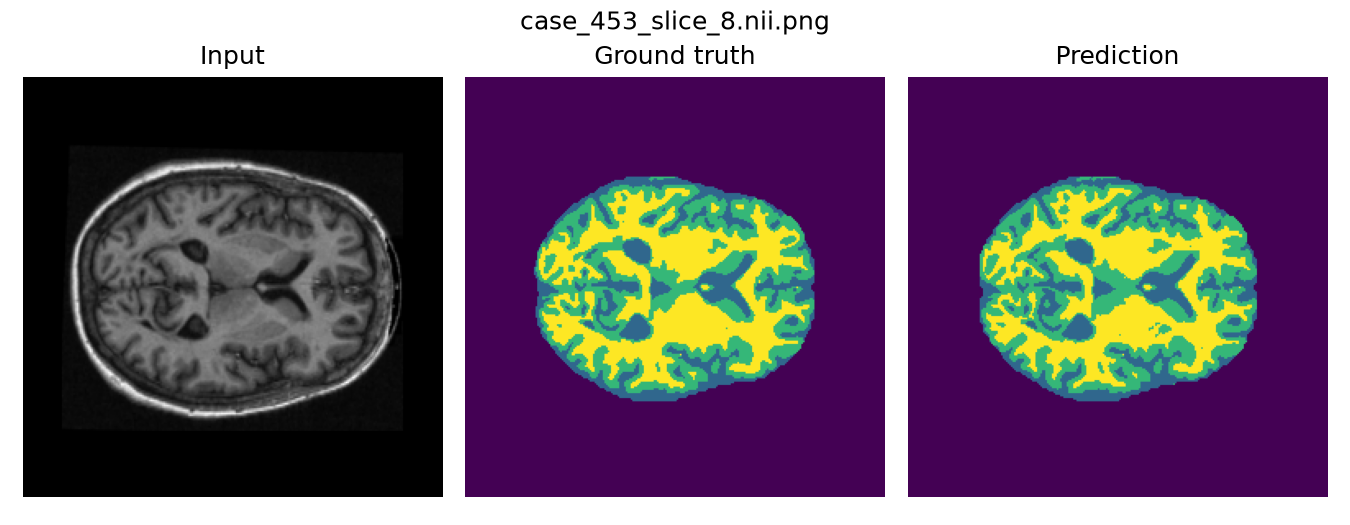
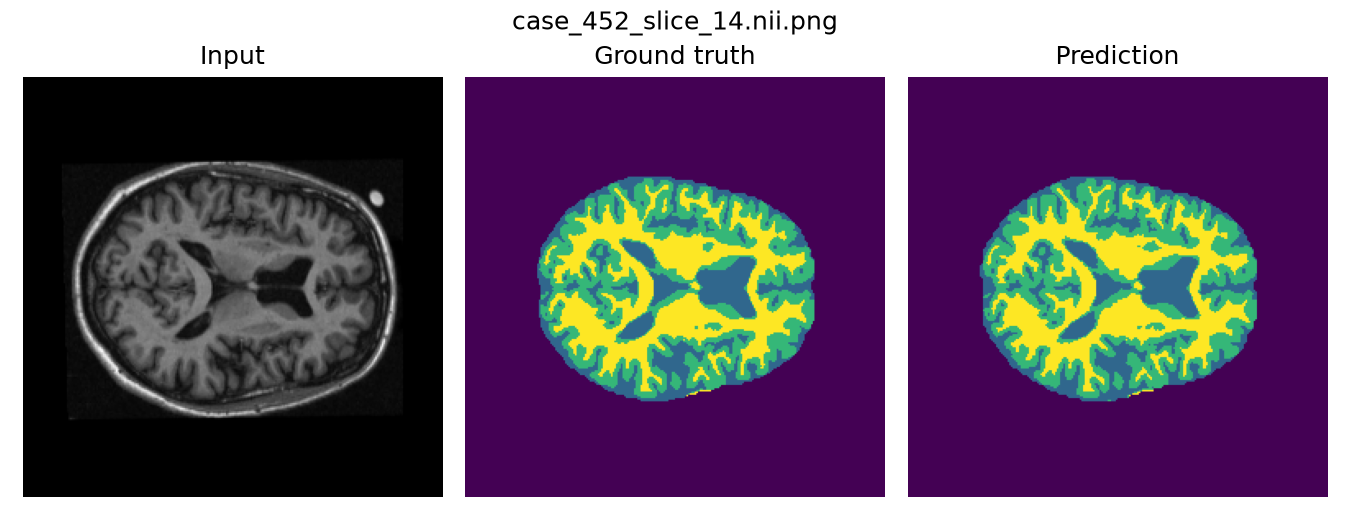
Add full test-set DSC evaluation and updated live inference result, add helpful comments.

diff --git a/task2_unet/evaluate_test_set.py b/task2_unet/evaluate_test_set.py
@@ -1,0 +1,62 @@
+"""
+COMP3710 Lab 2 - Task 4.4.2: full TEST SET evaluation (not just one slice).
+
+infer_unet.py demonstrates live inference on a single test image, which
+satisfies "demonstrate inference on an MRI from the dataset" literally.
+This script covers the other reading of the requirement - aggregate
+performance across the WHOLE held-out test set - so both are on hand.
+"""
+
+import os
+import argparse
+
+import torch
+from torch.utils.data import DataLoader
+
+from train_unet import (
+    UNet, OASISSegDataset, TEST_IMG_DIR, TEST_SEG_DIR,
+    NUM_CLASSES, CLASS_NAMES, hard_dsc,
+)
+
+parser = argparse.ArgumentParser()
+parser.add_argument("--run_name", type=str, required=True)
+parser.add_argument("--checkpoint", type=str, default="unet_best.pt")
+parser.add_argument("--batch_size", type=int, default=16)
+args, _ = parser.parse_known_args()
+
+OUTPUT_DIR = os.path.expanduser(f"~/comp3710_lab2/outputs/{args.run_name}")
+CHECKPOINT_PATH = os.path.join(OUTPUT_DIR, args.checkpoint)
+
+device = torch.device("cuda" if torch.cuda.is_available() else "cpu")
+
+
+def main():
+    print(f"Device: {device}")
+    print(f"Loading checkpoint: {CHECKPOINT_PATH}")
+
+    test_ds = OASISSegDataset(TEST_IMG_DIR, TEST_SEG_DIR)
+    test_loader = DataLoader(test_ds, batch_size=args.batch_size, shuffle=False)
+    print(f"Test slices: {len(test_ds)}")
+
+    model = UNet().to(device)
+    model.load_state_dict(torch.load(CHECKPOINT_PATH, map_location=device))
+    model.eval()
+
+    dsc_sum = torch.zeros(NUM_CLASSES).to(device)
+    n_batches = 0
+    with torch.no_grad():
+        for imgs, masks in test_loader:
+            imgs, masks = imgs.to(device), masks.to(device)
+            logits = model(imgs)
+            dsc_sum += hard_dsc(logits, masks, NUM_CLASSES)
+            n_batches += 1
+    test_dsc = (dsc_sum / n_batches).cpu().numpy()
+
+    print(f"\nFull TEST SET per-class DSC ({len(test_ds)} slices, all of them):")
+    for name, val in zip(CLASS_NAMES, test_dsc):
+        status = "PASS" if val > 0.9 else "FAIL"
+        print(f"  {name:15s}: {val:.4f}  [{status}, threshold 0.9]")
+
+
+if __name__ == "__main__":
+    main()

diff --git a/task2_unet/train_unet.py b/task2_unet/train_unet.py
@@ -63,13 +63,8 @@ os.makedirs(OUTPUT_DIR, exist_ok=True)
 
 IMG_SIZE = 256
 NUM_CLASSES = 4
-CLASS_NAMES = ["background", "CSF", "grey_matter", "white_matter"]  # standard
-                                                                     # OASIS 4-class
-                                                                     # convention;
-                                                                     # verify against
-                                                                     # dataset docs if
-                                                                     # precise anatomical
-                                                                     # labelling is asked
+CLASS_NAMES = ["background", "CSF", "grey_matter", "white_matter"]  #csf = cerebrospinal fluid
+# standard OASIS 4-class convention; verify against dataset docs if precise anatomical labelling is asked
 MASK_DIVISOR = 85  # raw mask values {0,85,170,255} -> class indices {0,1,2,3}
 
 BATCH_SIZE = args.batch_size
@@ -128,6 +123,8 @@ class OASISSegDataset(Dataset):
 # ----------------------------------------------------------------------
 # Model
 # ----------------------------------------------------------------------
+
+# the repeated building blocks 3x3 with stride = 1, keeps spatial size unchanged never changes resolution.
 class DoubleConv(nn.Module):
     def __init__(self, in_ch, out_ch):
         super().__init__()
@@ -215,6 +212,10 @@ def hard_dsc(logits, targets, num_classes, eps=1e-6):
     intersection = torch.sum(preds_onehot * targets_onehot, dims)
     cardinality = torch.sum(preds_onehot + targets_onehot, dims)
     return (2 * intersection + eps) / (cardinality + eps)  # [num_classes]
+
+# DSC Formula: DSC = 2·|X ∩ Y| / (|X| + |Y|), where X = predicted pixels for a class, 
+# Y = true pixels for that class. Ranges 0 (no overlap) to 1 (perfect match).
+# eps prevents division by zero error if some class never appears at all in a given batch
 
 
 # ----------------------------------------------------------------------
